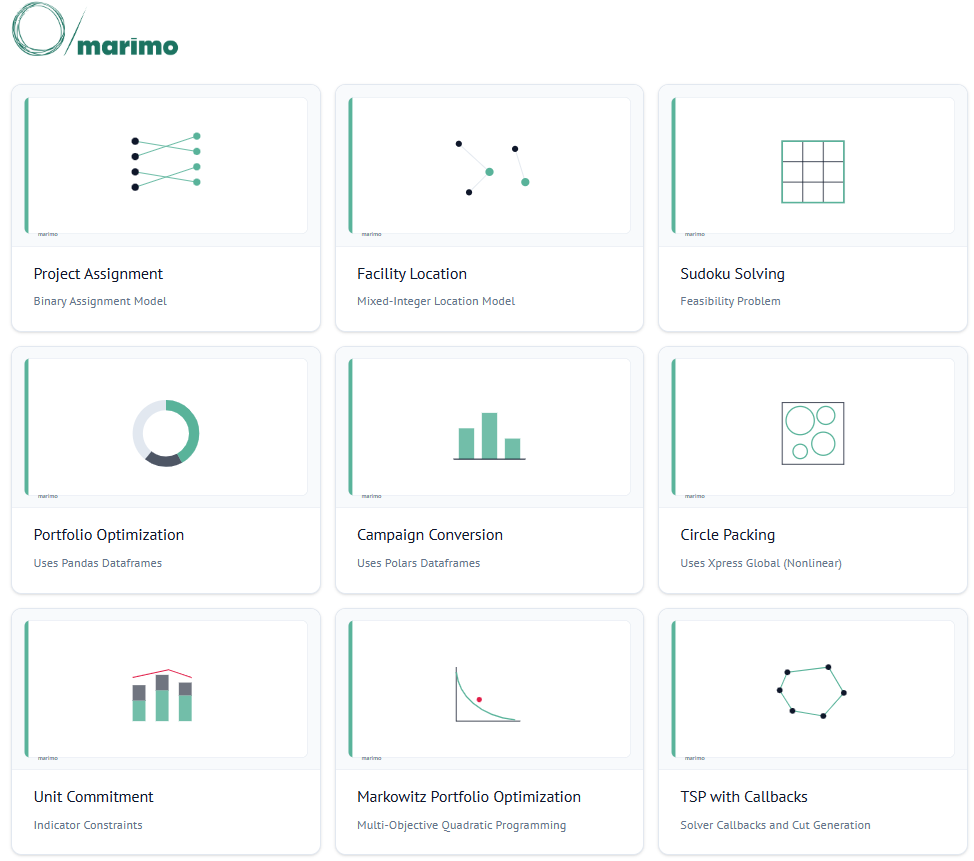
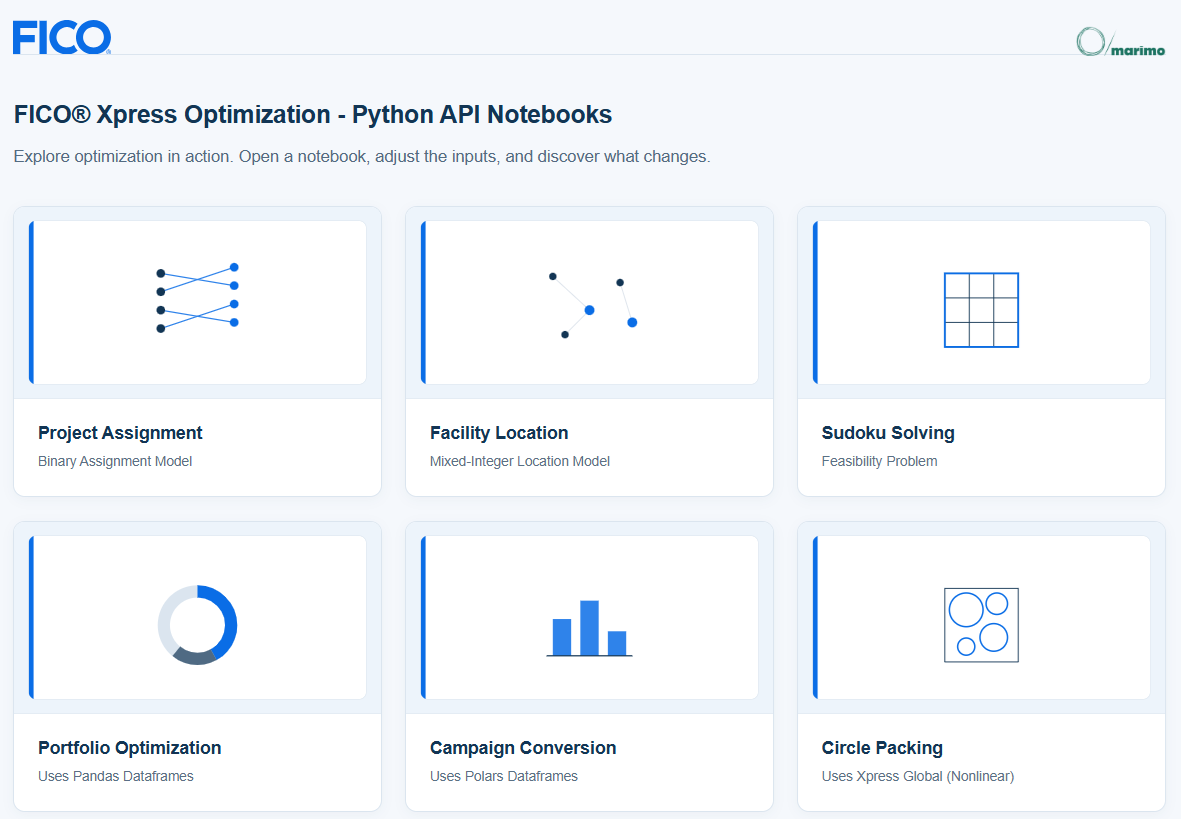
Update marimo README molab section and refresh screenshot

diff --git a/marimo/README.md b/marimo/README.md
@@ -2,45 +2,13 @@
 
 FICO&reg; Xpress Python example notebooks built with [marimo](https://marimo.io/), a reactive, browser-based notebook format.
 
-**Try an interactive example in your browser:** start with [molab](#running-marimo-notebooks-in-molab), a cloud-hosted marimo environment for learning and experimentation. Choose a notebook from the badges below; read the privacy notes before running it.
-
 **Just want to take a look, not run code?** See the [live read-only gallery](https://fico-xpress.github.io/python-notebooks/), a static export of every notebook below, no installation or Codespace setup needed. Each page is a static snapshot: sliders and other interactive controls will not respond. Follow the steps below to run a notebook interactively.
 
 ## Getting started
 
-* [Running marimo notebooks in molab](#running-marimo-notebooks-in-molab)
 * [Running marimo notebooks in GitHub Codespaces](#running-marimo-notebooks-in-github-codespaces)
+* [Running marimo notebooks in molab](#running-marimo-notebooks-in-molab)
 * [Running marimo notebooks locally](#running-marimo-notebooks-locally)
-
-## Running marimo notebooks in molab
-
-[molab](https://molab.marimo.io/) is marimo's free cloud-hosted notebook environment. Use it to learn from these public examples, explore the optimization models with interactive controls, and experiment with the code in your browser. You do not need to install Python locally or create a Codespace.
-
-**Before you start:** molab notebooks are public but unlisted by default. Anyone with a notebook's link can view it; an unlisted link is not private access control. Use the public example data, and keep confidential customer data, proprietary models, credentials, and license keys out of notebook code, outputs, and uploaded files. For private work or a full development environment, use an appropriately configured [GitHub Codespace](#running-marimo-notebooks-in-github-codespaces) or [run locally](#running-marimo-notebooks-locally).
-
-1. Choose an **Open in molab** badge below. It opens a preview of that notebook from this repository's `main` branch. GitHub remains the source of the shared example; the link follows updates to the original notebook.
-2. Choose **Run it now** to run the notebook on a temporary server, or **Fork** to make an editable copy in your own molab workspace. Sign in or create a molab account when prompted.
-3. If prompted, use marimo's package manager to install missing imports, including `xpress`. Then run the cells and try the sliders. These examples use the native Xpress solver, so use molab's server execution, not its WebAssembly preview. Changes to your fork do not update the FICO repository.
-
-molab is an interactive notebook environment for exploration and teaching. Temporary runs are not saved to your workspace, and sessions have time limits. Fork a notebook to keep an editable copy, and download any results you need to retain. See the [molab documentation](https://docs.marimo.io/guides/molab/) for current execution, sharing, package, and storage behavior, and its [usage restrictions](https://molab.marimo.io/pages/molab/restrictions) for supported use.
-
-### Open an example
-
-| Notebook source | Topic | Run in molab |
-| --- | --- | --- |
-| [Project Assignment](01_assignment.py) | Binary assignment model | [![Open in molab](https://marimo.io/molab-shield.svg)](https://molab.marimo.io/github/fico-xpress/python-notebooks/blob/main/marimo/01_assignment.py) |
-| [Facility Location](02_facility_location.py) | Mixed-integer location model | [![Open in molab](https://marimo.io/molab-shield.svg)](https://molab.marimo.io/github/fico-xpress/python-notebooks/blob/main/marimo/02_facility_location.py) |
-| [Sudoku](03_sudoku.py) | Feasibility problem | [![Open in molab](https://marimo.io/molab-shield.svg)](https://molab.marimo.io/github/fico-xpress/python-notebooks/blob/main/marimo/03_sudoku.py) |
-| [Portfolio Optimization](04_portfolio_pandas.py) | Pandas dataframes | [![Open in molab](https://marimo.io/molab-shield.svg)](https://molab.marimo.io/github/fico-xpress/python-notebooks/blob/main/marimo/04_portfolio_pandas.py) |
-| [Campaign Conversion](05_campaign_polars.py) | Polars dataframes | [![Open in molab](https://marimo.io/molab-shield.svg)](https://molab.marimo.io/github/fico-xpress/python-notebooks/blob/main/marimo/05_campaign_polars.py) |
-| [Circle Packing](06_circle_packing.py) | Nonlinear optimization with Xpress Global | [![Open in molab](https://marimo.io/molab-shield.svg)](https://molab.marimo.io/github/fico-xpress/python-notebooks/blob/main/marimo/06_circle_packing.py) |
-| [Unit Commitment](07_unitcommitment_indicators.py) | Indicator constraints | [![Open in molab](https://marimo.io/molab-shield.svg)](https://molab.marimo.io/github/fico-xpress/python-notebooks/blob/main/marimo/07_unitcommitment_indicators.py) |
-| [Markowitz Portfolio Optimization](08_markowitz_multiobj.py) | Multi-objective quadratic programming | [![Open in molab](https://marimo.io/molab-shield.svg)](https://molab.marimo.io/github/fico-xpress/python-notebooks/blob/main/marimo/08_markowitz_multiobj.py) |
-| [TSP with Callbacks](09_tsp_callbacks.py) | Solver callbacks and cut generation | [![Open in molab](https://marimo.io/molab-shield.svg)](https://molab.marimo.io/github/fico-xpress/python-notebooks/blob/main/marimo/09_tsp_callbacks.py) |
-
-### Example data
-
-The portfolio and campaign datasets are included in [public/data/](public/data/). molab imports this adjacent `public/` folder for both temporary runs and forks, so you do not need to upload the CSVs manually. The notebooks read the same files when run locally or in GitHub Codespaces.
 
 ## Running marimo notebooks in GitHub Codespaces
 
@@ -79,9 +47,30 @@ Please note that the creation of the codespace may take 3-4 minutes; we ask for 
 
    <p align="center"><img src="docs/images/controls.png" alt="assignment notebook controls with sliders" width="550"></p>
 
+## Running marimo notebooks in molab
+
+[molab](https://molab.marimo.io/) is marimo's free cloud-hosted notebook environment. Use it to learn from these public examples, explore the optimization models with interactive controls, and experiment with the code in your browser. You do not need to install Python locally or create a Codespace.
+
+**Before you start:** molab notebooks are public but unlisted by default. Anyone with a notebook's link can view it; an unlisted link is not private access control. Use the public example data, and keep confidential customer data, proprietary models, credentials, and license keys out of notebook code, outputs, and uploaded files.
+
+Click on a button below to run it with molab and follow the instructions:
+
+* **Project Assignment:** [![Open in molab](https://marimo.io/molab-shield.svg)](https://molab.marimo.io/github/fico-xpress/python-notebooks/blob/main/marimo/01_assignment.py)
+* **Facility Location:** [![Open in molab](https://marimo.io/molab-shield.svg)](https://molab.marimo.io/github/fico-xpress/python-notebooks/blob/main/marimo/02_facility_location.py)
+* **Sudoku:** [![Open in molab](https://marimo.io/molab-shield.svg)](https://molab.marimo.io/github/fico-xpress/python-notebooks/blob/main/marimo/03_sudoku.py)
+* **Portfolio Optimization:** [![Open in molab](https://marimo.io/molab-shield.svg)](https://molab.marimo.io/github/fico-xpress/python-notebooks/blob/main/marimo/04_portfolio_pandas.py)
+* **Campaign Conversion:** [![Open in molab](https://marimo.io/molab-shield.svg)](https://molab.marimo.io/github/fico-xpress/python-notebooks/blob/main/marimo/05_campaign_polars.py)
+* **Circle Packing:** [![Open in molab](https://marimo.io/molab-shield.svg)](https://molab.marimo.io/github/fico-xpress/python-notebooks/blob/main/marimo/06_circle_packing.py)
+* **Unit Commitment:** [![Open in molab](https://marimo.io/molab-shield.svg)](https://molab.marimo.io/github/fico-xpress/python-notebooks/blob/main/marimo/07_unitcommitment_indicators.py)
+* **Markowitz Portfolio Optimization:** [![Open in molab](https://marimo.io/molab-shield.svg)](https://molab.marimo.io/github/fico-xpress/python-notebooks/blob/main/marimo/08_markowitz_multiobj.py)
+* **TSP with Callbacks:** [![Open in molab](https://marimo.io/molab-shield.svg)](https://molab.marimo.io/github/fico-xpress/python-notebooks/blob/main/marimo/09_tsp_callbacks.py)
+
+1. Choose **Run it now** to run the notebook on a temporary server. Temporary runs are not saved to your workspace, and sessions have time limits. **Fork** to make an editable copy in your own molab workspace. See the [molab documentation](https://docs.marimo.io/guides/molab/) for current execution, sharing, package, and storage behavior, and its [usage restrictions](https://molab.marimo.io/pages/molab/restrictions) for supported use. **Sign in** or create a molab account when prompted.
+2. If prompted, use marimo's package manager to install missing imports, including `xpress`. Then run the cells and try the sliders. Changes to your fork do not update the FICO repository.
+
 ## Running marimo notebooks locally
 
-If you would rather not use Codespaces, you can run the notebooks on your own machine instead.
+If you would rather not use [Codespaces](#running-marimo-notebooks-in-github-codespaces) or [molab](#running-marimo-notebooks-in-molab), you can run the notebooks on your own machine instead.
 
 **Prerequisites:** [Python 3.13+](https://www.python.org/downloads/) and [Git](https://git-scm.com/downloads) installed.
 

diff --git a/README.md b/README.md
@@ -12,18 +12,6 @@ The examples are organized into three top-level folders, one per notebook engine
 * **[moselpy/](moselpy/README.md)** — Jupyter notebooks for MoselPy.
 * **[marimo/](marimo/README.md)** — reactive, browser-based [marimo](https://marimo.io/) notebooks for the Xpress Python API. Alternatively, you can browse a [live read-only gallery](https://fico-xpress.github.io/python-notebooks/) of all marimo notebooks, no installation required.
 
-## Running the marimo examples using molab
-
-[molab](https://molab.marimo.io/) is marimo's free cloud-hosted notebook environment. It is a convenient option for running these public examples: single click open a notebook in your browser, run it on a temporary server, or fork it into your workspace to experiment with the code.
-
-Try the Project Assignment example:
-
-[![Open in molab](https://marimo.io/molab-shield.svg)](https://molab.marimo.io/github/fico-xpress/python-notebooks/blob/main/marimo/01_assignment.py)
-
-See [all nine notebooks and the molab walkthrough](marimo/README.md#running-marimo-notebooks-in-molab). The example datasets are included automatically.
-
-**Privacy and intended use:** molab is useful for education, demonstrations, and interactive exploration. Notebooks in molab are public but unlisted by default: anyone with a link can view them. Do not put confidential data, proprietary models, or credentials in notebook code, outputs, or uploaded files.
-
 ## Running the examples using GitHub codespaces
 
 ### Jupyter notebooks (`xpress-api/`, `moselpy/`)
@@ -47,6 +35,8 @@ See [all nine notebooks and the molab walkthrough](marimo/README.md#running-mari
 marimo notebooks require an extra step not needed for Jupyter: when creating the codespace, you must explicitly choose the **"Marimo Xpress Notebooks"** dev container configuration from the dropdown (via **Create codespace** > **...** > **New with options**), instead of the default **"Default (Jupyter)"** configuration.
 
 See [marimo/README.md](marimo/README.md) for the full walkthrough with screenshots.
+
+You can also run the marimo notebooks in [molab](marimo/README.md#running-marimo-notebooks-in-molab), marimo's free cloud-hosted notebook environment, no installation required.
 
 ## Documentation and other examples
 
